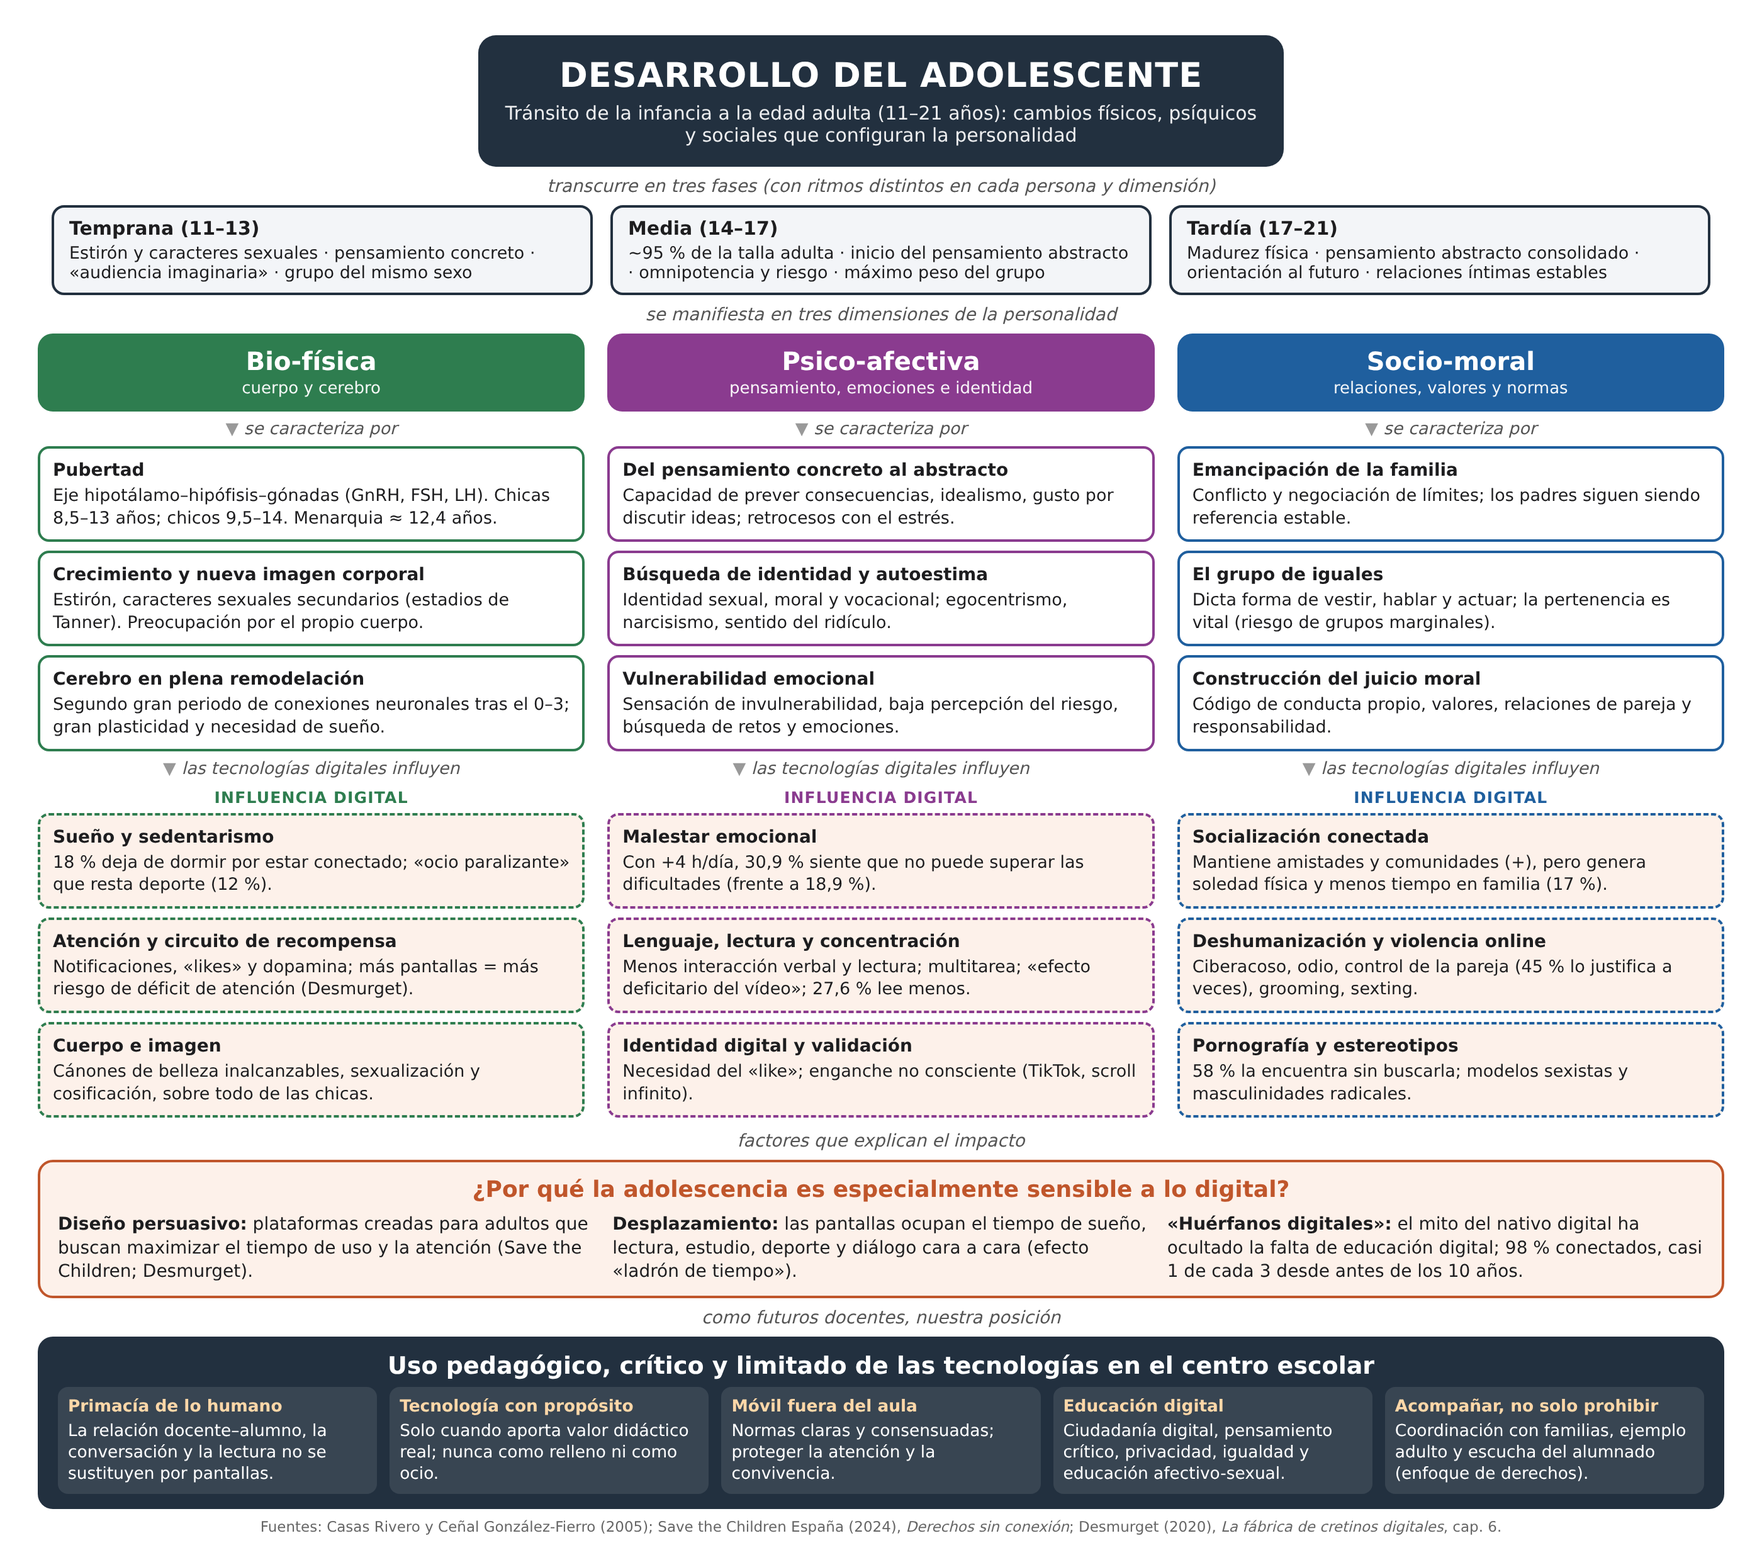
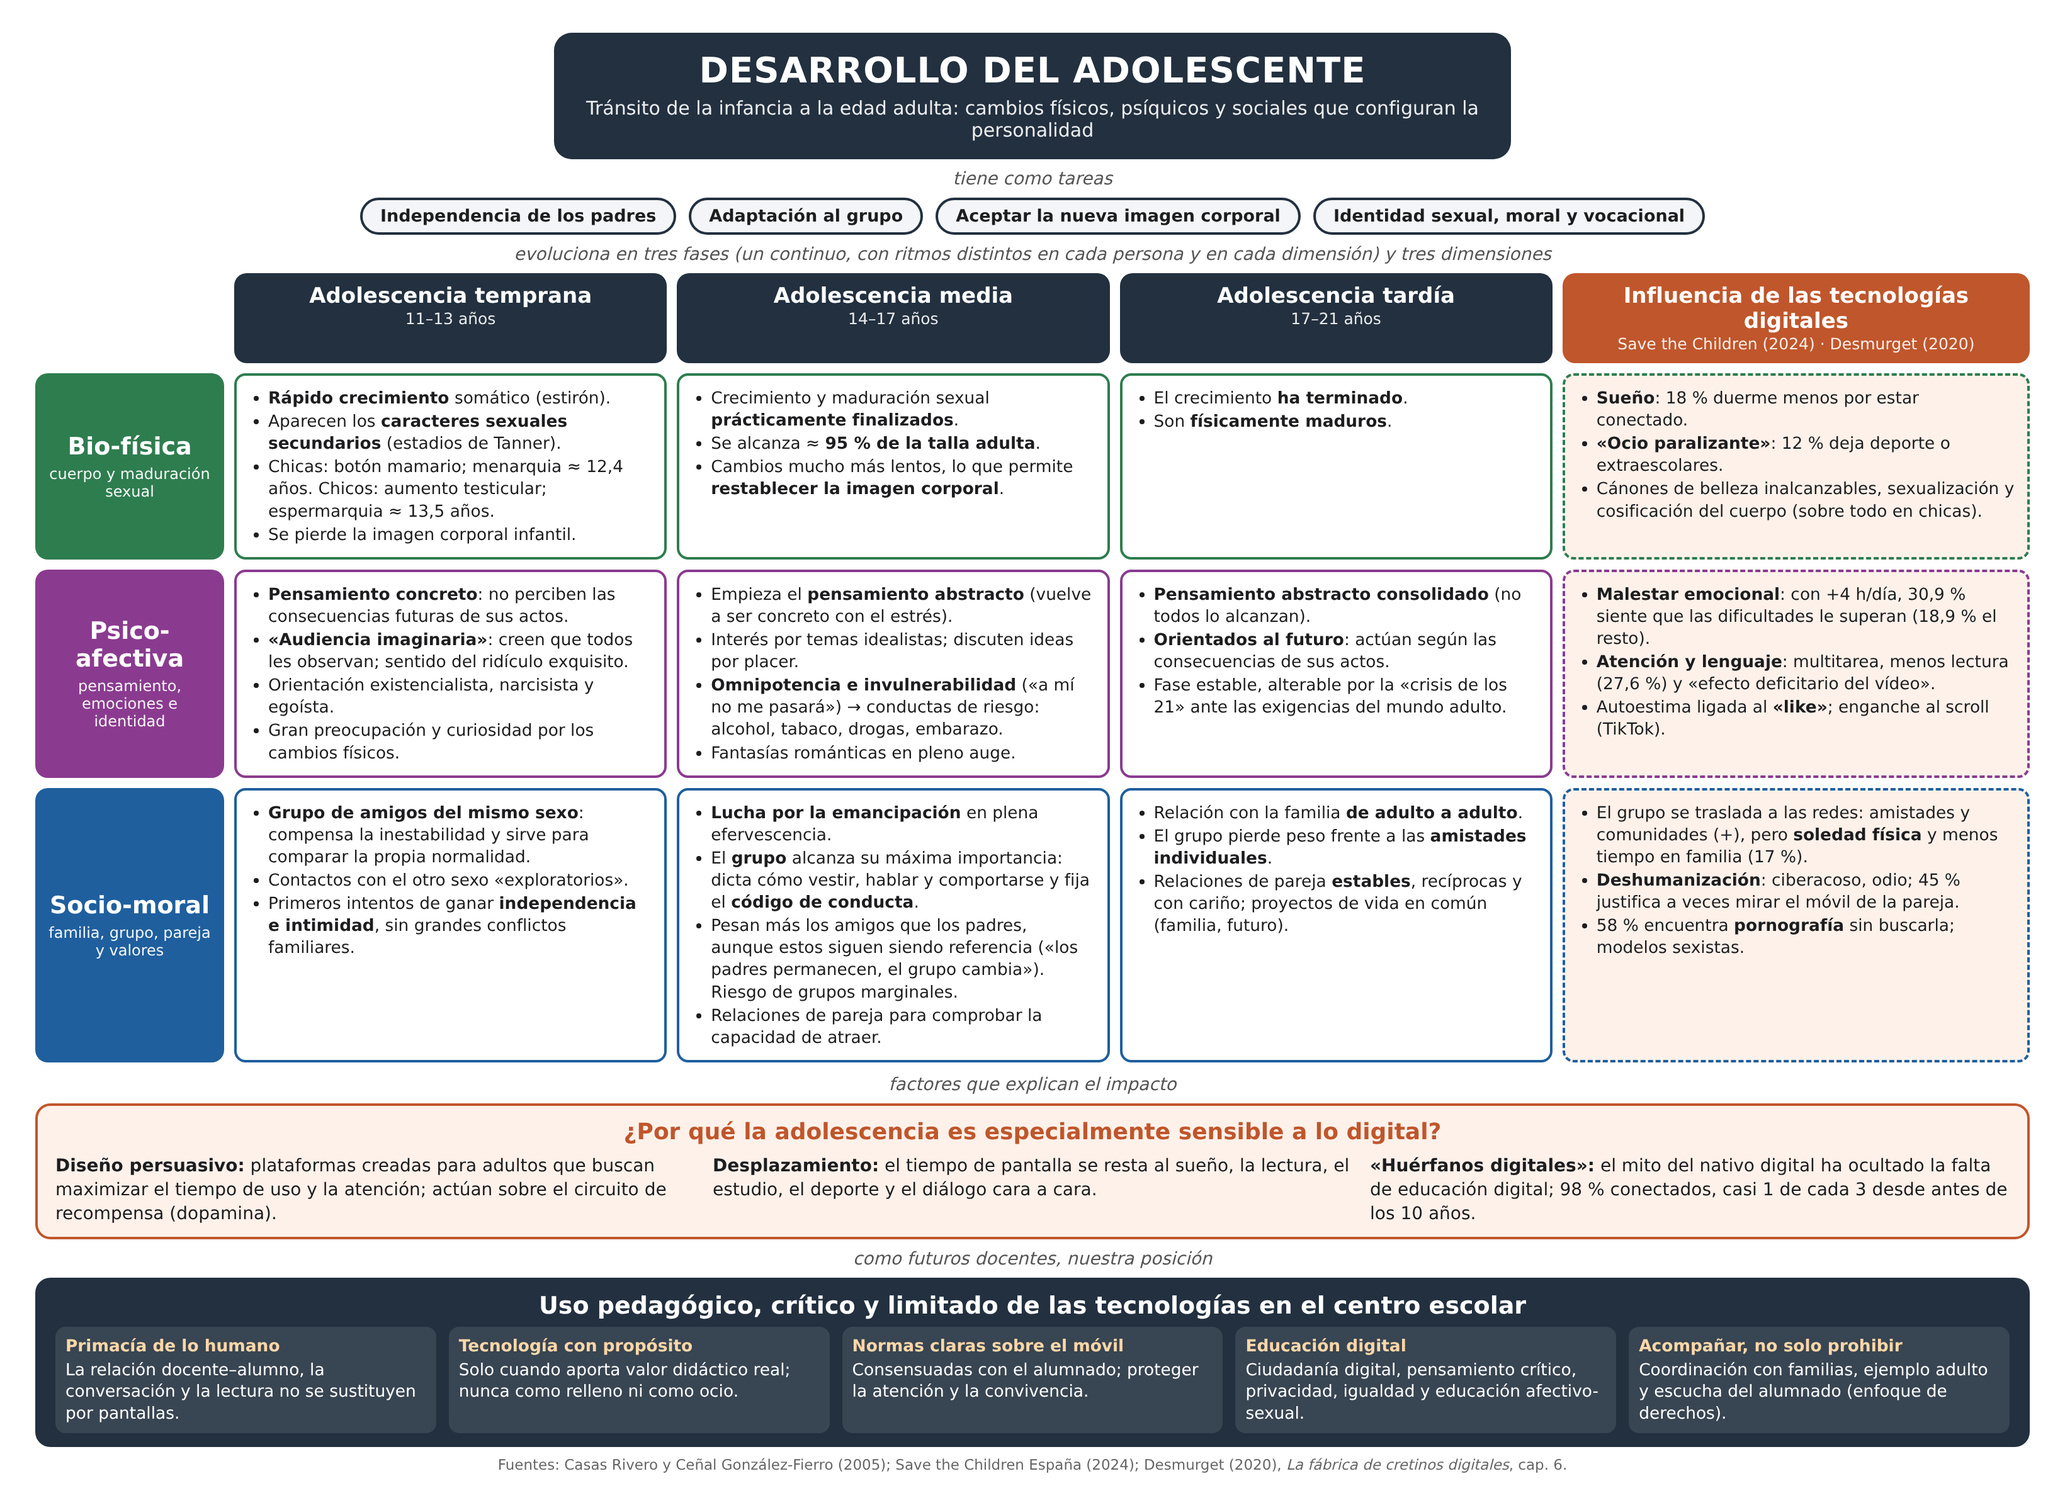
Mapa conceptual: características por fase (temprana/media/tardía) en cada dimensión
Claude-Session: https://claude.ai/code/session_01Pd37RKwwK3xCRjaCne6cYt

Changed region(s): [[0.0, 0.0311, 0.9943, 0.995], [0.9632, 0.684, 0.9943, 0.7151]]

diff --git a/tareas/desarrollo_adolescente/mapa_conceptual.html b/tareas/desarrollo_adolescente/mapa_conceptual.html
@@ -2,36 +2,30 @@
 <html lang="es"><head><meta charset="utf-8">
 <style>
 *{box-sizing:border-box;margin:0;padding:0}
-body{width:1400px;background:#fff;font-family:"DejaVu Sans",Arial,sans-serif;color:#1d1d1f;padding:28px 30px}
-.c{text-align:center}
-.root{margin:0 auto;width:640px;background:#22303f;color:#fff;border-radius:14px;padding:16px 18px;text-align:center}
-.root h1{font-size:27px;letter-spacing:.5px}
-.root p{font-size:15px;margin-top:6px;opacity:.92}
+body{width:1640px;background:#fff;font-family:"DejaVu Sans",Arial,sans-serif;color:#1d1d1f;padding:26px 28px}
+.root{margin:0 auto;width:760px;background:#22303f;color:#fff;border-radius:14px;padding:14px 18px;text-align:center}
+.root h1{font-size:28px;letter-spacing:.5px}
+.root p{font-size:15px;margin-top:5px;opacity:.92}
 .link{font-size:14px;font-style:italic;color:#555;text-align:center;margin:7px 0}
-.link b{font-style:normal;color:#999}
-.phases{display:flex;gap:14px;justify-content:center}
-.ph{border:2px solid #22303f;border-radius:10px;padding:8px 12px;width:430px;font-size:13.5px;background:#f3f5f8}
-.ph h3{font-size:15px;margin-bottom:3px}
-.cols{display:grid;grid-template-columns:1fr 1fr 1fr;gap:18px;margin-top:4px}
-.col{display:flex;flex-direction:column;gap:0}
-.dim{border-radius:12px;color:#fff;padding:11px;text-align:center}
-.dim h2{font-size:20px}
-.dim p{font-size:13px;opacity:.95;margin-top:2px}
-.box{border:2px solid;border-radius:9px;padding:8px 10px;font-size:13.5px;line-height:1.32;background:#fff}
-.box+.box{margin-top:7px}
-.box b{display:block;font-size:14px;margin-bottom:2px}
-.sec{font-size:12.5px;font-weight:bold;text-transform:uppercase;letter-spacing:.6px;margin:2px 0 5px;text-align:center}
-.bio .dim{background:#2e7d4f}.bio .box{border-color:#2e7d4f}.bio .sec{color:#2e7d4f}
-.psi .dim{background:#8a3b8f}.psi .box{border-color:#8a3b8f}.psi .sec{color:#8a3b8f}
-.soc .dim{background:#1f5f9e}.soc .box{border-color:#1f5f9e}.soc .sec{color:#1f5f9e}
-.tic{background:#fdf1ea !important;border-style:dashed !important}
-.pos{background:#eef7ee !important}
-.arrow{text-align:center;font-size:13.5px;font-style:italic;color:#555;margin:6px 0}
-.arrow:before{content:"▼ ";font-style:normal;color:#999}
-.band{margin-top:6px;border:2px solid #c0562b;border-radius:12px;padding:10px 14px;background:#fdf1ea;font-size:14px;line-height:1.35}
+.tareas{display:flex;gap:10px;justify-content:center;margin-bottom:4px}
+.tareas div{border:2px solid #22303f;border-radius:20px;padding:5px 14px;font-size:13.5px;background:#f3f5f8;font-weight:bold}
+.grid{display:grid;grid-template-columns:150px 1fr 1fr 1fr 1.08fr;gap:8px}
+.hd{border-radius:10px;padding:8px 10px;text-align:center;background:#22303f;color:#fff}
+.hd h3{font-size:17px}.hd p{font-size:12.5px;opacity:.9;margin-top:1px}
+.hd.dig{background:#c0562b}
+.dim{border-radius:10px;color:#fff;padding:10px 8px;display:flex;flex-direction:column;justify-content:center;text-align:center}
+.dim h2{font-size:19px}.dim p{font-size:12px;opacity:.95;margin-top:4px}
+.cell{border:2px solid;border-radius:9px;padding:8px 10px;font-size:13.2px;line-height:1.33;background:#fff}
+.cell ul{padding-left:15px}.cell li{margin:1px 0}
+.cell.dig{background:#fdf1ea;border-style:dashed}
+.bio .dim{background:#2e7d4f}.bio.cell{border-color:#2e7d4f}
+.psi .dim{background:#8a3b8f}.psi.cell{border-color:#8a3b8f}
+.soc .dim{background:#1f5f9e}.soc.cell{border-color:#1f5f9e}
+.bio{} .contents{display:contents}
+.band{margin-top:4px;border:2px solid #c0562b;border-radius:12px;padding:9px 14px;background:#fdf1ea;font-size:14px;line-height:1.35}
 .band h2{font-size:18px;color:#c0562b;text-align:center;margin-bottom:5px}
-.band .g{display:grid;grid-template-columns:1fr 1fr 1fr;gap:14px}
-.final{margin-top:4px;background:#22303f;color:#fff;border-radius:12px;padding:12px 16px}
+.g3{display:grid;grid-template-columns:1fr 1fr 1fr;gap:14px}
+.final{margin-top:4px;background:#22303f;color:#fff;border-radius:12px;padding:11px 16px}
 .final h2{font-size:19px;text-align:center;margin-bottom:6px}
 .final .g{display:grid;grid-template-columns:repeat(5,1fr);gap:10px;font-size:13.2px;line-height:1.3}
 .final .g div{background:rgba(255,255,255,.1);border-radius:8px;padding:7px 8px}
@@ -40,61 +34,84 @@ body{width:1400px;background:#fff;font-family:"DejaVu Sans",Arial,sans-serif;col
 </style></head><body>
 
 <div class="root"><h1>DESARROLLO DEL ADOLESCENTE</h1>
-<p>Tránsito de la infancia a la edad adulta (11–21 años): cambios físicos, psíquicos y sociales que configuran la personalidad</p></div>
-<div class="link">transcurre en tres fases (con ritmos distintos en cada persona y dimensión)</div>
-<div class="phases">
- <div class="ph"><h3>Temprana (11–13)</h3>Estirón y caracteres sexuales · pensamiento concreto · «audiencia imaginaria» · grupo del mismo sexo</div>
- <div class="ph"><h3>Media (14–17)</h3>~95 % de la talla adulta · inicio del pensamiento abstracto · omnipotencia y riesgo · máximo peso del grupo</div>
- <div class="ph"><h3>Tardía (17–21)</h3>Madurez física · pensamiento abstracto consolidado · orientación al futuro · relaciones íntimas estables</div>
+<p>Tránsito de la infancia a la edad adulta: cambios físicos, psíquicos y sociales que configuran la personalidad</p></div>
+<div class="link">tiene como tareas</div>
+<div class="tareas"><div>Independencia de los padres</div><div>Adaptación al grupo</div><div>Aceptar la nueva imagen corporal</div><div>Identidad sexual, moral y vocacional</div></div>
+<div class="link">evoluciona en tres fases (un continuo, con ritmos distintos en cada persona y en cada dimensión) y tres dimensiones</div>
+
+<div class="grid">
+ <div></div>
+ <div class="hd"><h3>Adolescencia temprana</h3><p>11–13 años</p></div>
+ <div class="hd"><h3>Adolescencia media</h3><p>14–17 años</p></div>
+ <div class="hd"><h3>Adolescencia tardía</h3><p>17–21 años</p></div>
+ <div class="hd dig"><h3>Influencia de las tecnologías digitales</h3><p>Save the Children (2024) · Desmurget (2020)</p></div>
+
+ <!-- BIO-FÍSICA -->
+ <div class="bio"><div class="dim" style="height:100%"><h2>Bio-física</h2><p>cuerpo y maduración sexual</p></div></div>
+ <div class="bio cell"><ul>
+  <li><b>Rápido crecimiento</b> somático (estirón).</li>
+  <li>Aparecen los <b>caracteres sexuales secundarios</b> (estadios de Tanner).</li>
+  <li>Chicas: botón mamario; menarquia ≈ 12,4 años. Chicos: aumento testicular; espermarquia ≈ 13,5 años.</li>
+  <li>Se pierde la imagen corporal infantil.</li></ul></div>
+ <div class="bio cell"><ul>
+  <li>Crecimiento y maduración sexual <b>prácticamente finalizados</b>.</li>
+  <li>Se alcanza ≈ <b>95 % de la talla adulta</b>.</li>
+  <li>Cambios mucho más lentos, lo que permite <b>restablecer la imagen corporal</b>.</li></ul></div>
+ <div class="bio cell"><ul>
+  <li>El crecimiento <b>ha terminado</b>.</li>
+  <li>Son <b>físicamente maduros</b>.</li></ul></div>
+ <div class="bio cell dig"><ul>
+  <li><b>Sueño</b>: 18 % duerme menos por estar conectado.</li>
+  <li><b>«Ocio paralizante»</b>: 12 % deja deporte o extraescolares.</li>
+  <li>Cánones de belleza inalcanzables, sexualización y cosificación del cuerpo (sobre todo en chicas).</li></ul></div>
+
+ <!-- PSICO-AFECTIVA -->
+ <div class="psi"><div class="dim" style="height:100%"><h2>Psico-afectiva</h2><p>pensamiento, emociones e identidad</p></div></div>
+ <div class="psi cell"><ul>
+  <li><b>Pensamiento concreto</b>: no perciben las consecuencias futuras de sus actos.</li>
+  <li><b>«Audiencia imaginaria»</b>: creen que todos les observan; sentido del ridículo exquisito.</li>
+  <li>Orientación existencialista, narcisista y egoísta.</li>
+  <li>Gran preocupación y curiosidad por los cambios físicos.</li></ul></div>
+ <div class="psi cell"><ul>
+  <li>Empieza el <b>pensamiento abstracto</b> (vuelve a ser concreto con el estrés).</li>
+  <li>Interés por temas idealistas; discuten ideas por placer.</li>
+  <li><b>Omnipotencia e invulnerabilidad</b> («a mí no me pasará») → conductas de riesgo: alcohol, tabaco, drogas, embarazo.</li>
+  <li>Fantasías románticas en pleno auge.</li></ul></div>
+ <div class="psi cell"><ul>
+  <li><b>Pensamiento abstracto consolidado</b> (no todos lo alcanzan).</li>
+  <li><b>Orientados al futuro</b>: actúan según las consecuencias de sus actos.</li>
+  <li>Fase estable, alterable por la «crisis de los 21» ante las exigencias del mundo adulto.</li></ul></div>
+ <div class="psi cell dig"><ul>
+  <li><b>Malestar emocional</b>: con +4 h/día, 30,9 % siente que las dificultades le superan (18,9 % el resto).</li>
+  <li><b>Atención y lenguaje</b>: multitarea, menos lectura (27,6 %) y «efecto deficitario del vídeo».</li>
+  <li>Autoestima ligada al <b>«like»</b>; enganche al scroll (TikTok).</li></ul></div>
+
+ <!-- SOCIO-MORAL -->
+ <div class="soc"><div class="dim" style="height:100%"><h2>Socio-moral</h2><p>familia, grupo, pareja y valores</p></div></div>
+ <div class="soc cell"><ul>
+  <li><b>Grupo de amigos del mismo sexo</b>: compensa la inestabilidad y sirve para comparar la propia normalidad.</li>
+  <li>Contactos con el otro sexo «exploratorios».</li>
+  <li>Primeros intentos de ganar <b>independencia e intimidad</b>, sin grandes conflictos familiares.</li></ul></div>
+ <div class="soc cell"><ul>
+  <li><b>Lucha por la emancipación</b> en plena efervescencia.</li>
+  <li>El <b>grupo</b> alcanza su máxima importancia: dicta cómo vestir, hablar y comportarse y fija el <b>código de conducta</b>.</li>
+  <li>Pesan más los amigos que los padres, aunque estos siguen siendo referencia («los padres permanecen, el grupo cambia»). Riesgo de grupos marginales.</li>
+  <li>Relaciones de pareja para comprobar la capacidad de atraer.</li></ul></div>
+ <div class="soc cell"><ul>
+  <li>Relación con la familia <b>de adulto a adulto</b>.</li>
+  <li>El grupo pierde peso frente a las <b>amistades individuales</b>.</li>
+  <li>Relaciones de pareja <b>estables</b>, recíprocas y con cariño; proyectos de vida en común (familia, futuro).</li></ul></div>
+ <div class="soc cell dig"><ul>
+  <li>El grupo se traslada a las redes: amistades y comunidades (+), pero <b>soledad física</b> y menos tiempo en familia (17 %).</li>
+  <li><b>Deshumanización</b>: ciberacoso, odio; 45 % justifica a veces mirar el móvil de la pareja.</li>
+  <li>58 % encuentra <b>pornografía</b> sin buscarla; modelos sexistas.</li></ul></div>
 </div>
-<div class="link">se manifiesta en tres dimensiones de la personalidad</div>
 
-<div class="cols">
- <div class="col bio">
-  <div class="dim"><h2>Bio-física</h2><p>cuerpo y cerebro</p></div>
-  <div class="arrow">se caracteriza por</div>
-  <div class="box"><b>Pubertad</b>Eje hipotálamo–hipófisis–gónadas (GnRH, FSH, LH). Chicas 8,5–13 años; chicos 9,5–14. Menarquia ≈ 12,4 años.</div>
-  <div class="box"><b>Crecimiento y nueva imagen corporal</b>Estirón, caracteres sexuales secundarios (estadios de Tanner). Preocupación por el propio cuerpo.</div>
-  <div class="box"><b>Cerebro en plena remodelación</b>Segundo gran periodo de conexiones neuronales tras el 0–3; gran plasticidad y necesidad de sueño.</div>
-  <div class="arrow">las tecnologías digitales influyen</div>
-  <div class="sec">Influencia digital</div>
-  <div class="box tic"><b>Sueño y sedentarismo</b>18 % deja de dormir por estar conectado; «ocio paralizante» que resta deporte (12 %).</div>
-  <div class="box tic"><b>Atención y circuito de recompensa</b>Notificaciones, «likes» y dopamina; más pantallas = más riesgo de déficit de atención (Desmurget).</div>
-  <div class="box tic"><b>Cuerpo e imagen</b>Cánones de belleza inalcanzables, sexualización y cosificación, sobre todo de las chicas.</div>
- </div>
-
- <div class="col psi">
-  <div class="dim"><h2>Psico-afectiva</h2><p>pensamiento, emociones e identidad</p></div>
-  <div class="arrow">se caracteriza por</div>
-  <div class="box"><b>Del pensamiento concreto al abstracto</b>Capacidad de prever consecuencias, idealismo, gusto por discutir ideas; retrocesos con el estrés.</div>
-  <div class="box"><b>Búsqueda de identidad y autoestima</b>Identidad sexual, moral y vocacional; egocentrismo, narcisismo, sentido del ridículo.</div>
-  <div class="box"><b>Vulnerabilidad emocional</b>Sensación de invulnerabilidad, baja percepción del riesgo, búsqueda de retos y emociones.</div>
-  <div class="arrow">las tecnologías digitales influyen</div>
-  <div class="sec">Influencia digital</div>
-  <div class="box tic"><b>Malestar emocional</b>Con +4 h/día, 30,9 % siente que no puede superar las dificultades (frente a 18,9 %).</div>
-  <div class="box tic"><b>Lenguaje, lectura y concentración</b>Menos interacción verbal y lectura; multitarea; «efecto deficitario del vídeo»; 27,6 % lee menos.</div>
-  <div class="box tic"><b>Identidad digital y validación</b>Necesidad del «like»; enganche no consciente (TikTok, scroll infinito).</div>
- </div>
-
- <div class="col soc">
-  <div class="dim"><h2>Socio-moral</h2><p>relaciones, valores y normas</p></div>
-  <div class="arrow">se caracteriza por</div>
-  <div class="box"><b>Emancipación de la familia</b>Conflicto y negociación de límites; los padres siguen siendo referencia estable.</div>
-  <div class="box"><b>El grupo de iguales</b>Dicta forma de vestir, hablar y actuar; la pertenencia es vital (riesgo de grupos marginales).</div>
-  <div class="box"><b>Construcción del juicio moral</b>Código de conducta propio, valores, relaciones de pareja y responsabilidad.</div>
-  <div class="arrow">las tecnologías digitales influyen</div>
-  <div class="sec">Influencia digital</div>
-  <div class="box tic"><b>Socialización conectada</b>Mantiene amistades y comunidades (+), pero genera soledad física y menos tiempo en familia (17 %).</div>
-  <div class="box tic"><b>Deshumanización y violencia online</b>Ciberacoso, odio, control de la pareja (45 % lo justifica a veces), grooming, sexting.</div>
-  <div class="box tic"><b>Pornografía y estereotipos</b>58 % la encuentra sin buscarla; modelos sexistas y masculinidades radicales.</div>
- </div>
-</div>
-
-<div class="link" style="margin-top:10px">factores que explican el impacto</div>
+<div class="link" style="margin-top:9px">factores que explican el impacto</div>
 <div class="band"><h2>¿Por qué la adolescencia es especialmente sensible a lo digital?</h2>
- <div class="g">
-  <div><b>Diseño persuasivo:</b> plataformas creadas para adultos que buscan maximizar el tiempo de uso y la atención (Save the Children; Desmurget).</div>
-  <div><b>Desplazamiento:</b> las pantallas ocupan el tiempo de sueño, lectura, estudio, deporte y diálogo cara a cara (efecto «ladrón de tiempo»).</div>
+ <div class="g3">
+  <div><b>Diseño persuasivo:</b> plataformas creadas para adultos que buscan maximizar el tiempo de uso y la atención; actúan sobre el circuito de recompensa (dopamina).</div>
+  <div><b>Desplazamiento:</b> el tiempo de pantalla se resta al sueño, la lectura, el estudio, el deporte y el diálogo cara a cara.</div>
   <div><b>«Huérfanos digitales»:</b> el mito del nativo digital ha ocultado la falta de educación digital; 98 % conectados, casi 1 de cada 3 desde antes de los 10 años.</div>
  </div>
 </div>
@@ -104,10 +121,10 @@ body{width:1400px;background:#fff;font-family:"DejaVu Sans",Arial,sans-serif;col
  <div class="g">
   <div><b>Primacía de lo humano</b>La relación docente–alumno, la conversación y la lectura no se sustituyen por pantallas.</div>
   <div><b>Tecnología con propósito</b>Solo cuando aporta valor didáctico real; nunca como relleno ni como ocio.</div>
-  <div><b>Móvil fuera del aula</b>Normas claras y consensuadas; proteger la atención y la convivencia.</div>
+  <div><b>Normas claras sobre el móvil</b>Consensuadas con el alumnado; proteger la atención y la convivencia.</div>
   <div><b>Educación digital</b>Ciudadanía digital, pensamiento crítico, privacidad, igualdad y educación afectivo-sexual.</div>
   <div><b>Acompañar, no solo prohibir</b>Coordinación con familias, ejemplo adulto y escucha del alumnado (enfoque de derechos).</div>
  </div>
 </div>
-<div class="src">Fuentes: Casas Rivero y Ceñal González-Fierro (2005); Save the Children España (2024), <i>Derechos sin conexión</i>; Desmurget (2020), <i>La fábrica de cretinos digitales</i>, cap. 6.</div>
+<div class="src">Fuentes: Casas Rivero y Ceñal González-Fierro (2005); Save the Children España (2024); Desmurget (2020), <i>La fábrica de cretinos digitales</i>, cap. 6.</div>
 </body></html>
